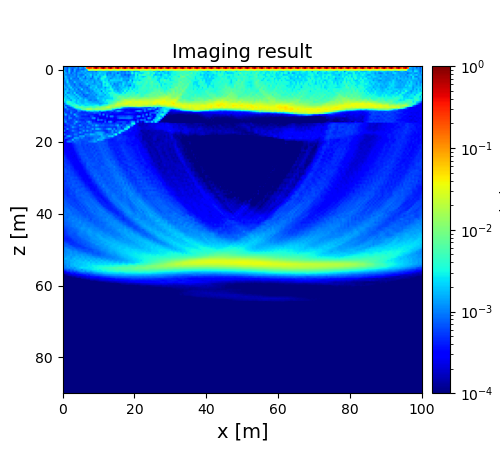
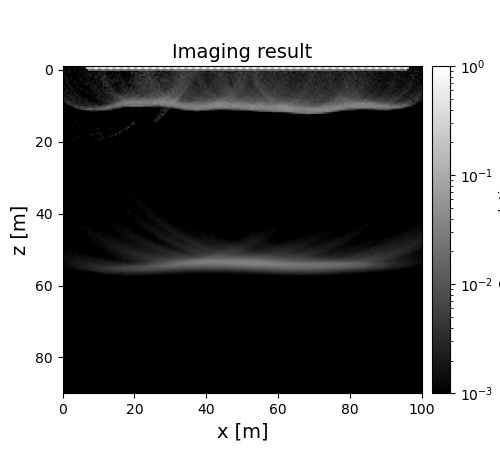
Add option to plot only in imaging.py

diff --git a/tools/imaging.py b/tools/imaging.py
@@ -13,9 +13,10 @@ from tools.outputfiles_merge import get_output_data
 
 # Parse command line arguments
 parser = argparse.ArgumentParser(description='Processing Su method',
-                                 usage='cd gprMax; python -m tools.imaging jsonfile velocity_structure')
+                                 usage='cd gprMax; python -m tools.imaging jsonfile velocity_structure -plot')
 parser.add_argument('jsonfile', help='name of json file')
 parser.add_argument('velocity_structure', choices=['y', 'n'], help='whether to use velocity structure or not')
+parser.add_argument('-plot', action='store_true', help='option: plot only')
 args = parser.parse_args()
 
 
@@ -166,36 +167,42 @@ def calc_corr():
 
     return corr_xz
 
-
-#* 関数の実行
-corr = calc_corr()
-corr = corr / np.amax(corr) # normalize
-
-
 #* make output dir and save data as txt file
 output_dir_path = data_dir_path + '/imaging'
 if not os.path.exists(output_dir_path):
     os.mkdir(output_dir_path)
 
-np.savetxt(output_dir_path + '/imaging_result.csv', corr, delimiter=',')
+
+#* calculate and save as txt file
+if args.plot == False:
+    corr = calc_corr()
+    corr = corr / np.amax(corr) # normalize
+
+    #* save as txt file
+    np.savetxt(output_dir_path + '/imaging_result.csv', corr, delimiter=',')
+
+#* don't calculate, only plot
+elif args.plot == True:
+    corr = np.loadtxt(params['imaging_result_csv'], delimiter=',')
 
 
 #* plot
-fig = plt.figure(figsize=(5, 5*corr.shape[0]/corr.shape[1]) ,facecolor='w', edgecolor='w')
-ax = fig.add_subplot(111)
-plt.imshow(corr, 
-        extent=[0, corr.shape[1] * imaging_resolution, 
-                corr.shape[0]*imaging_resolution-antenna_height, -antenna_height], 
-        aspect=1, cmap='jet', norm=colors.LogNorm(vmin=1e-3, vmax=np.amax(corr)))
+    fig = plt.figure(figsize=(5, 5*corr.shape[0]/corr.shape[1]) ,facecolor='w', edgecolor='w')
+    ax = fig.add_subplot(111)
+    plt.imshow(corr, 
+            extent=[0, corr.shape[1] * imaging_resolution, 
+                    corr.shape[0]*imaging_resolution-antenna_height, -antenna_height], 
+            aspect=1,
+            cmap='gray', # recomended: 'jet', 'binary'
+            norm=colors.LogNorm(vmin=1e-3, vmax=np.amax(corr)))
 
-ax.set_xlabel('x [m]', fontsize=14)
-ax.set_ylabel('z [m]', fontsize=14)
-ax.set_title('Imaging result', fontsize=14)
+    ax.set_xlabel('x [m]', fontsize=14)
+    ax.set_ylabel('z [m]', fontsize=14)
+    ax.set_title('Imaging result', fontsize=14)
 
-delvider = axgrid1.make_axes_locatable(ax)
-cax = delvider.append_axes('right', size='5%', pad=0.1)
-plt.colorbar(cax=cax, label='Cross-correlation')
+    delvider = axgrid1.make_axes_locatable(ax)
+    cax = delvider.append_axes('right', size='5%', pad=0.1)
+    plt.colorbar(cax=cax, label='Cross-correlation')
 
-plt.savefig(output_dir_path + '/imaging_result.png')
-plt.show()
-
+    plt.savefig(output_dir_path + '/imaging_result.png')
+    plt.show()
